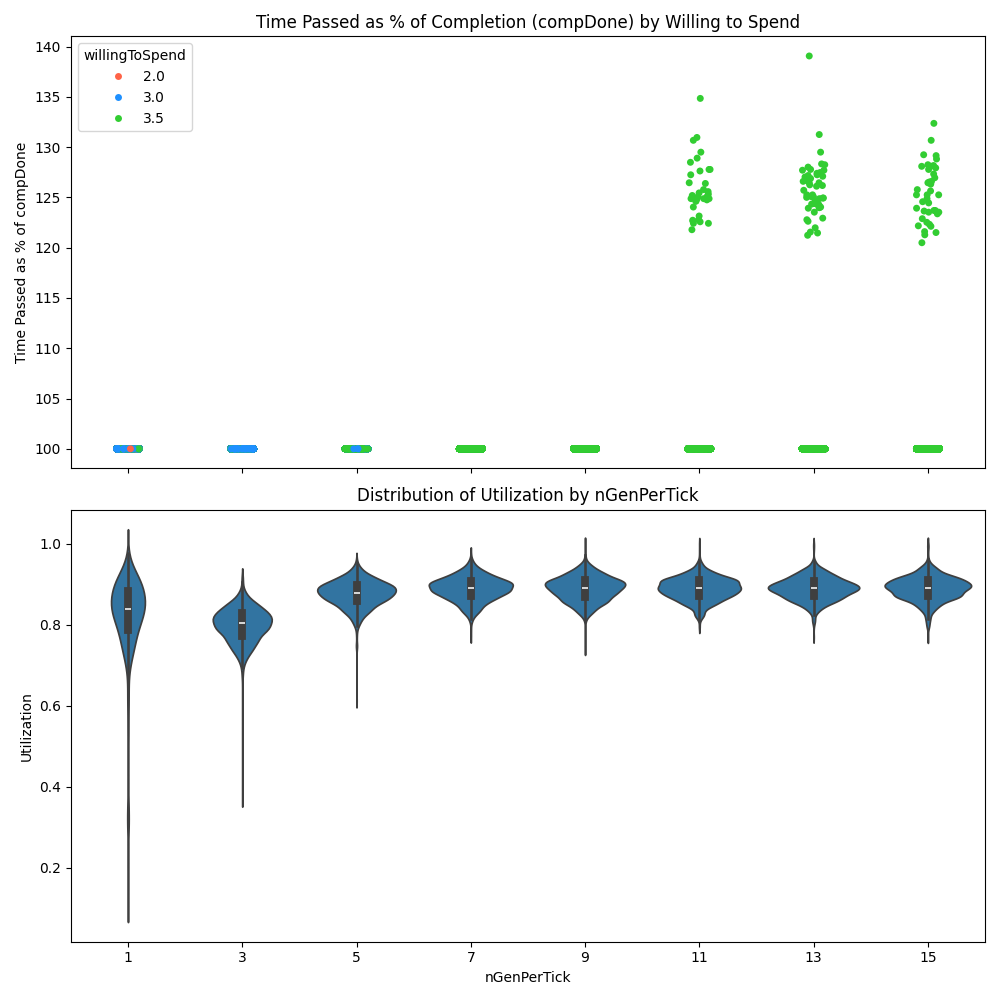
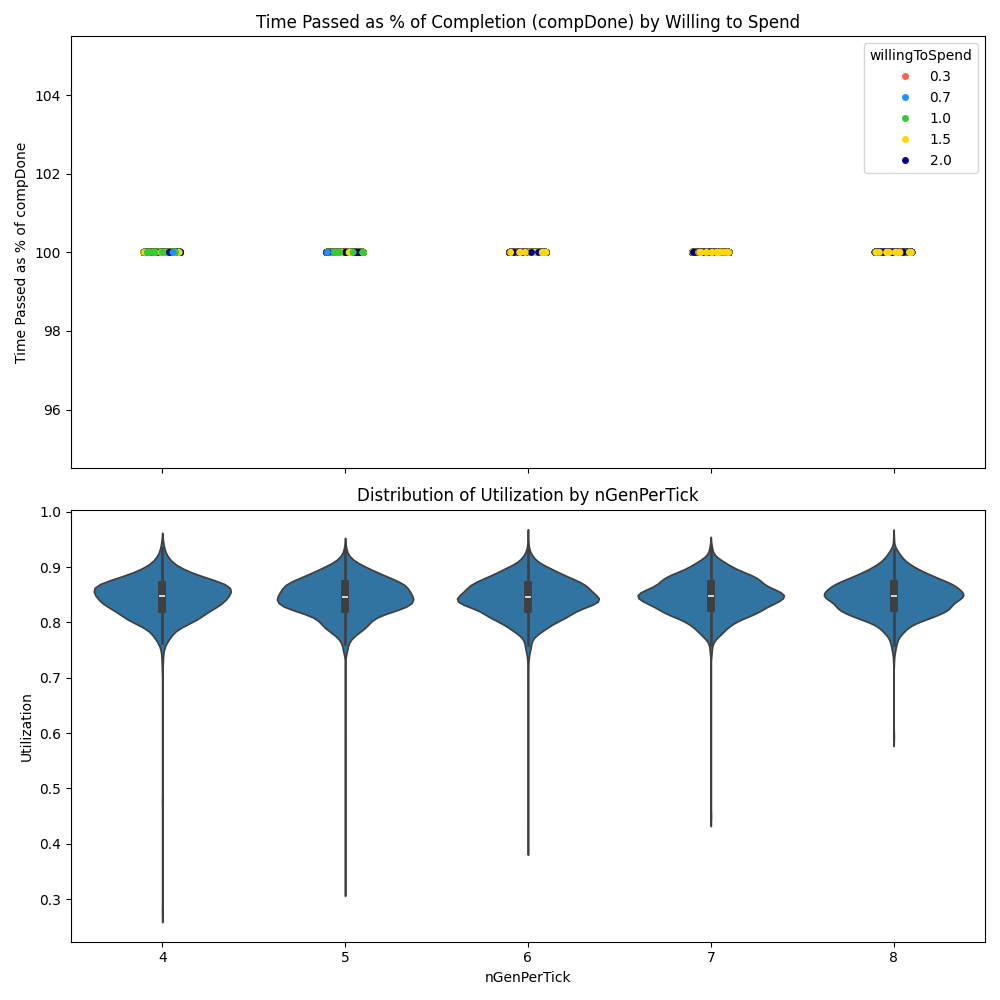
changed how load is generated to be more general - min is sampled by normal, and actual by pareto. should min maybe be bimodal? look at serverless in the wild/other workload papers?

diff --git a/website.go b/website.go
@@ -1,56 +1,21 @@
 package slasched
 
+import "math"
+
 // constants characterizing the wesbite traffic
 const (
-	// fraction of procs generated that are in each category
-	FRACTION_PAGE_STATIC     = 0.6 // 0.5
-	FRACTION_PAGE_DYNAMIC    = 0.35
-	FRACTION_DATA_PROCESS_FG = 0.047 // 10
-	FRACTION_DATA_PROCESS_BG = 0.003 // 05
+	N_PRIORITIES = 5
 
-	// mem usage, in MB
-	PAGE_STATIC_MEM_USG     = 20
-	PAGE_DYNAMIC_MEM_USG    = 300
-	DATA_PROCESS_FG_MEM_USG = 1000
-	DATA_PROCESS_BG_MEM_USG = 10000
+	MIN_COMP     = 0.2
+	AVG_COMP     = 2
+	STD_DEV_COMP = 5
+	MAX_COMP     = 100
+
+	MIN_MEM = 1
+	MAX_MEM = 10000
+
+	PARETO_ALPHA = 25
 )
-
-// the types of procs the website will have
-type ProcType int
-
-const (
-	PAGE_STATIC ProcType = iota
-	PAGE_DYNAMIC
-	DATA_PROCESS_FG
-	DATA_PROCESS_BG
-)
-
-func (pt ProcType) String() string {
-	return []string{"page static", "page dynamic", "data process fg", "data process bg"}[pt]
-}
-
-// returns std dev (sigma)
-// this is used as the sigma in getting the actual runtime
-func (pt ProcType) getExpectedProcDeviationVariance() float64 {
-	// page static: 0.5ms, page dynamic: 2ms, data process fg: 10ms, data process bg: 500ms
-	return []float64{0.1, 0.4, 2, 100}[pt]
-}
-
-func (pt ProcType) getExpectedComp() int {
-	// page static: 5ms, page dynamic: 20ms, data process fg: 500ms, data process bg: 5ms
-	return []int{1, 4, 100, 1000}[pt]
-}
-
-// // the amount memory a proc of the given type will use (for now this is static)
-func (pt ProcType) getMemoryUsage() Tmem {
-	// page static, page dynamic, data process fg, data process bg
-	return []Tmem{PAGE_STATIC_MEM_USG, PAGE_DYNAMIC_MEM_USG, DATA_PROCESS_FG_MEM_USG, DATA_PROCESS_BG_MEM_USG}[pt]
-}
-
-func (pt ProcType) getWillingToSpend() float32 {
-	// page static, page dynamic, data process fg, data process bg
-	return []float32{3, 3.5, 2, 1.5}[pt]
-}
 
 type Website interface {
 	genLoad(nProcs int, tenantId Tid) []*ProcInternals
@@ -64,55 +29,27 @@ func newSimpleWebsite() *SimpleWebsite {
 	return &SimpleWebsite{}
 }
 
-// website function types:
-// - respond to page requests (static, eg front page)
-// - respond to page requests (dynamic, eg profile page)
-// - process inputted user data (foreground, eg processes an uploading photo/video)
-// - process user data (background, eg run data warehouse update flows)
+// 0 is the cheapest, 5 the most expensive
+func mapPriorityToDollars(priority int) float32 {
+	return []float32{0.3, 0.7, 1.0, 1.5, 2}[priority]
+}
 
 func (website *SimpleWebsite) genLoad(nProcs int, tenantId Tid) []*ProcInternals {
 	// nproc := int(website.poisson.Rand())
-	procs := make([]*ProcInternals, 0)
+	procs := make([]*ProcInternals, nProcs)
 
-	numStatic, numDynamic, numProcessFg, numProcessBg := website.genNumberOfProcs(nProcs)
+	for i := 0; i < nProcs; i++ {
 
-	// gen all the proc types, for now this is manual
-	procs = append(procs, website.genProcsOfType(PAGE_STATIC, numStatic, tenantId)...)
-	procs = append(procs, website.genProcsOfType(PAGE_DYNAMIC, numDynamic, tenantId)...)
-	procs = append(procs, website.genProcsOfType(DATA_PROCESS_FG, numProcessFg, tenantId)...)
-	procs = append(procs, website.genProcsOfType(DATA_PROCESS_BG, numProcessBg, tenantId)...)
+		minComp := math.Max(math.Min(sampleNormal(AVG_COMP, STD_DEV_COMP), MAX_COMP), MIN_COMP)
+		actualComp := ParetoSample(PARETO_ALPHA, float64(minComp))
 
-	return procs
-}
+		priority := r.Intn(N_PRIORITIES)
+		willingToSpend := mapPriorityToDollars(priority)
 
-func (website *SimpleWebsite) genNumberOfProcs(totalNumProcs int) (int, int, int, int) {
+		maxMem := MIN_MEM + r.Intn(MAX_MEM-MIN_MEM)
 
-	numStatic := 0
-	numDynamic := 0
-	numProcessFg := 0
-	numProcessBg := 0
-
-	for i := 0; i < totalNumProcs; i++ {
-		randVal := r.Float64()
-		if randVal < FRACTION_DATA_PROCESS_BG {
-			numProcessBg += 1
-		} else if randVal < FRACTION_DATA_PROCESS_BG+FRACTION_DATA_PROCESS_FG {
-			numProcessFg += 1
-		} else if randVal < FRACTION_PAGE_DYNAMIC+FRACTION_DATA_PROCESS_FG+FRACTION_DATA_PROCESS_BG {
-			numDynamic += 1
-		} else {
-			numStatic += 1
-		}
+		procs[i] = newPrivProc(float32(actualComp), willingToSpend, maxMem, tenantId)
 	}
 
-	return numStatic, numDynamic, numProcessFg, numProcessBg
-
-}
-
-func (website *SimpleWebsite) genProcsOfType(typeWanted ProcType, numProcs int, tenantId Tid) []*ProcInternals {
-	procs := make([]*ProcInternals, numProcs)
-	for i := 0; i < numProcs; i++ {
-		procs[i] = newPrivProc(float32(typeWanted.getExpectedComp()), float32(typeWanted.getExpectedProcDeviationVariance()), typeWanted.getWillingToSpend(), typeWanted.getMemoryUsage(), tenantId)
-	}
 	return procs
 }

diff --git a/run_test.go b/run_test.go
@@ -12,18 +12,18 @@ const (
 	N_MACHINES          = 10
 	N_CORES_PER_MACHINE = 8
 
-	N_TENANTS = 10
+	N_TENANTS = 8
 
 	// this is per tenant
 	// TODO: I think next step is to make this more differentiated -- do pareto distribution? has a mean and an avg vaguely, I think
 	// is whats pareto distributed the number of procs or their runtime? or both?
-	N_PROCS_GEN_PER_TICK_START = 1
-	N_PROCS_GEN_PER_TICK_END   = 15
+	N_PROCS_GEN_PER_TICK_START = 4
+	N_PROCS_GEN_PER_TICK_END   = 8
 )
 
 func TestRunWorld(t *testing.T) {
 	emptyFiles()
-	for nProcsToGen := N_PROCS_GEN_PER_TICK_START; nProcsToGen <= N_PROCS_GEN_PER_TICK_END; nProcsToGen += 2 {
+	for nProcsToGen := N_PROCS_GEN_PER_TICK_START; nProcsToGen <= N_PROCS_GEN_PER_TICK_END; nProcsToGen += 1 {
 		fmt.Printf("---- Running with %v procs per ticks ----\n", nProcsToGen)
 		w := newWorld(N_MACHINES, N_CORES_PER_MACHINE, nProcsToGen, N_TENANTS)
 		time.Sleep(100 * time.Millisecond)

diff --git a/results/draw_pareto.py b/results/draw_pareto.py
@@ -1,0 +1,29 @@
+import numpy as np
+import matplotlib.pyplot as plt
+
+# Parameters for the Pareto distribution
+alpha = 25.0    # Shape parameter (alpha > 0)
+x_m = 50.0      # Scale parameter (x_m > 0)
+
+# Generate random samples from the Pareto distribution
+sample_size = 1000
+pareto_samples = (np.random.pareto(alpha, sample_size) + 1) * x_m
+
+# Plotting the Pareto distribution
+plt.figure(figsize=(8, 6))
+plt.hist(pareto_samples, bins=50, density=True, alpha=0.6, color='g')
+
+# Plot the theoretical PDF of the Pareto distribution
+x = np.linspace(x_m, pareto_samples.max(), 1000)
+pdf = (alpha * x_m**alpha) / (x**(alpha + 1))
+plt.plot(x, pdf, 'r-', lw=2, label=f'Pareto PDF (a={alpha}, xm={x_m})')
+
+# Labels and title
+plt.title('Pareto Distribution (a = 2, xm = 1)')
+plt.xlabel('x')
+plt.ylabel('Density')
+plt.legend()
+
+# Show the plot
+plt.grid(True)
+plt.show()

diff --git a/results/usage_plots.py b/results/usage_plots.py
@@ -18,7 +18,7 @@ ideal_usage_metrics["utilization"] = (numMachines * coresPerMachine - ideal_usag
 fig, ax = plt.subplots(2, 1, figsize=(10, 10), sharex=True)
 
 # 2. First subplot: Scatter plot for timeAsPercentage
-high_contrast_palette = ["#FF6347", "#1E90FF", "#32CD32", "#FFD700"]  # Example: Red, Blue, Green, Yellow
+high_contrast_palette = ["#FF6347", "#1E90FF", "#32CD32", "#FFD700", "#00008B"]  # Example: Red, Blue, Green, Yellow
 
 # Create the stripplot with the custom high-contrast palette
 sns.stripplot(data=ideal_procs_done, x="nGenPerTick", y="timeAsPercentage", hue="willingToSpend", 

diff --git a/proc.go b/proc.go
@@ -68,12 +68,7 @@ type ProcInternals struct {
 	maxMem         Tmem
 }
 
-func newPrivProc(expectedComp float32, compVar float32, willingToSpend float32, maxMem Tmem, tenantId Tid) *ProcInternals {
+func newPrivProc(actualComp float32, willingToSpend float32, maxMem int, tenantId Tid) *ProcInternals {
 
-	actualComp := Tftick(sampleNormal(float64(expectedComp), float64(compVar)))
-	if actualComp < 0 {
-		actualComp = Tftick(0.3)
-	}
-
-	return &ProcInternals{tenantId, actualComp, willingToSpend, maxMem}
+	return &ProcInternals{tenantId, Tftick(actualComp), willingToSpend, Tmem(maxMem)}
 }

diff --git a/world.go b/world.go
@@ -5,7 +5,7 @@ import (
 )
 
 const (
-	MEM_PER_MACHINE = 32000
+	MEM_PER_MACHINE = 512000
 
 	IDLE_HEAP_THRESHOLD = 1
 
@@ -25,7 +25,7 @@ type World struct {
 	currProcNum   int
 	machines      map[Tid]*Machine
 	idealDC       *IdealDC
-	gs            *GlobalSched
+	gs            *GlobalSched // TODO: actually, I think this should be a hashring or some sort of auto sharding thing
 	tenants       []*Ttenant
 }
 

diff --git a/utils.go b/utils.go
@@ -3,6 +3,7 @@ package slasched
 import (
 	"container/heap"
 	"fmt"
+	"math"
 	"os"
 )
 
@@ -76,6 +77,11 @@ func remove(h *MinHeap, toRemove Tid) {
 			break
 		}
 	}
+}
+
+func ParetoSample(alpha, xm float64) float64 {
+	rnd := r.ExpFloat64()
+	return xm * math.Exp(rnd/alpha)
 }
 
 func sampleNormal(mu, sigma float64) float64 {
